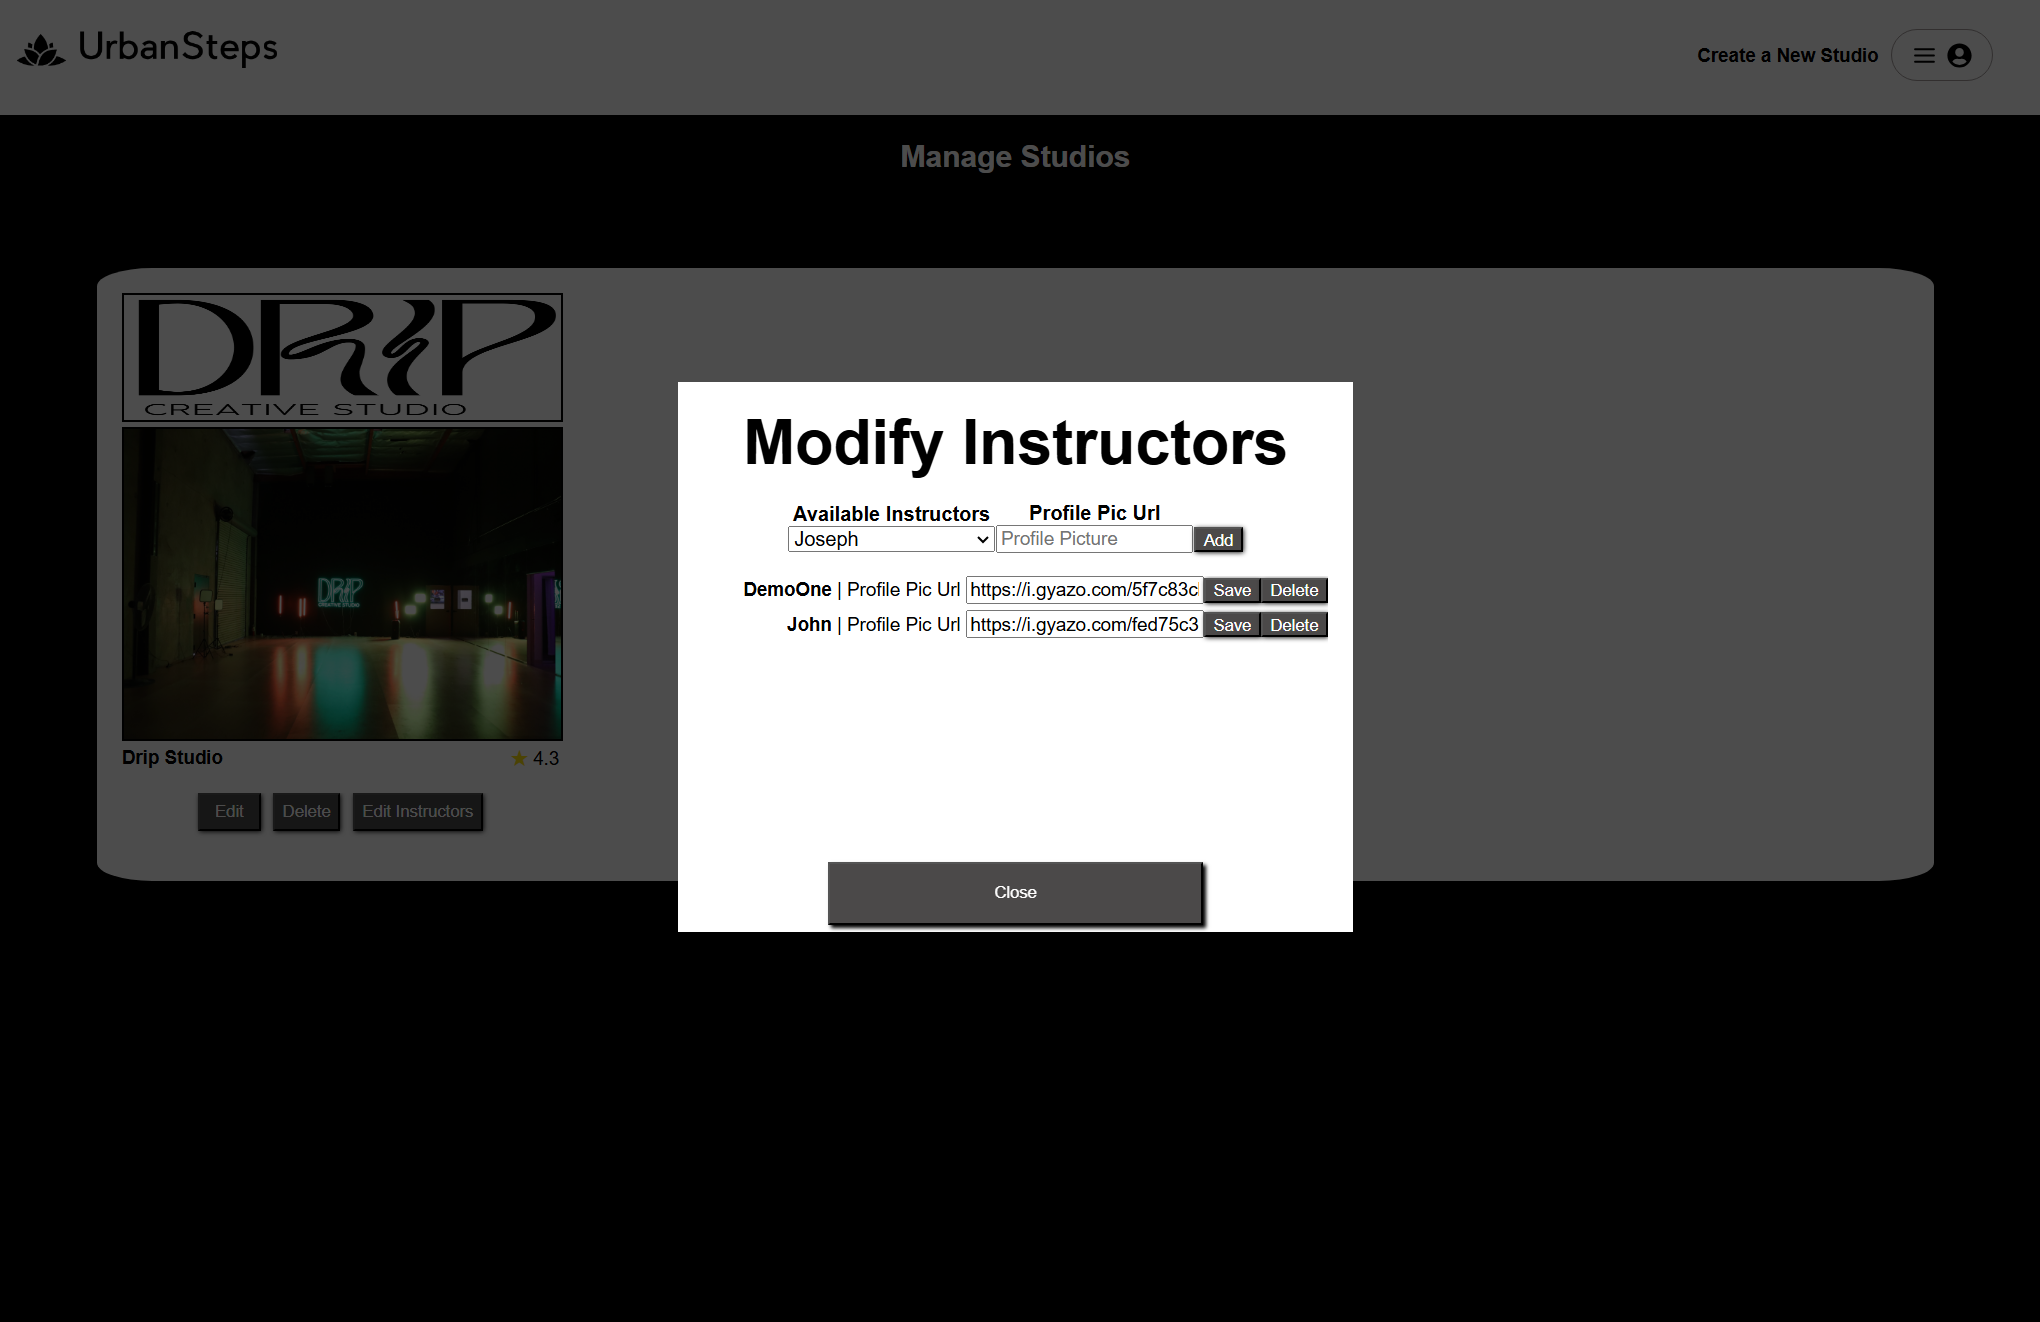
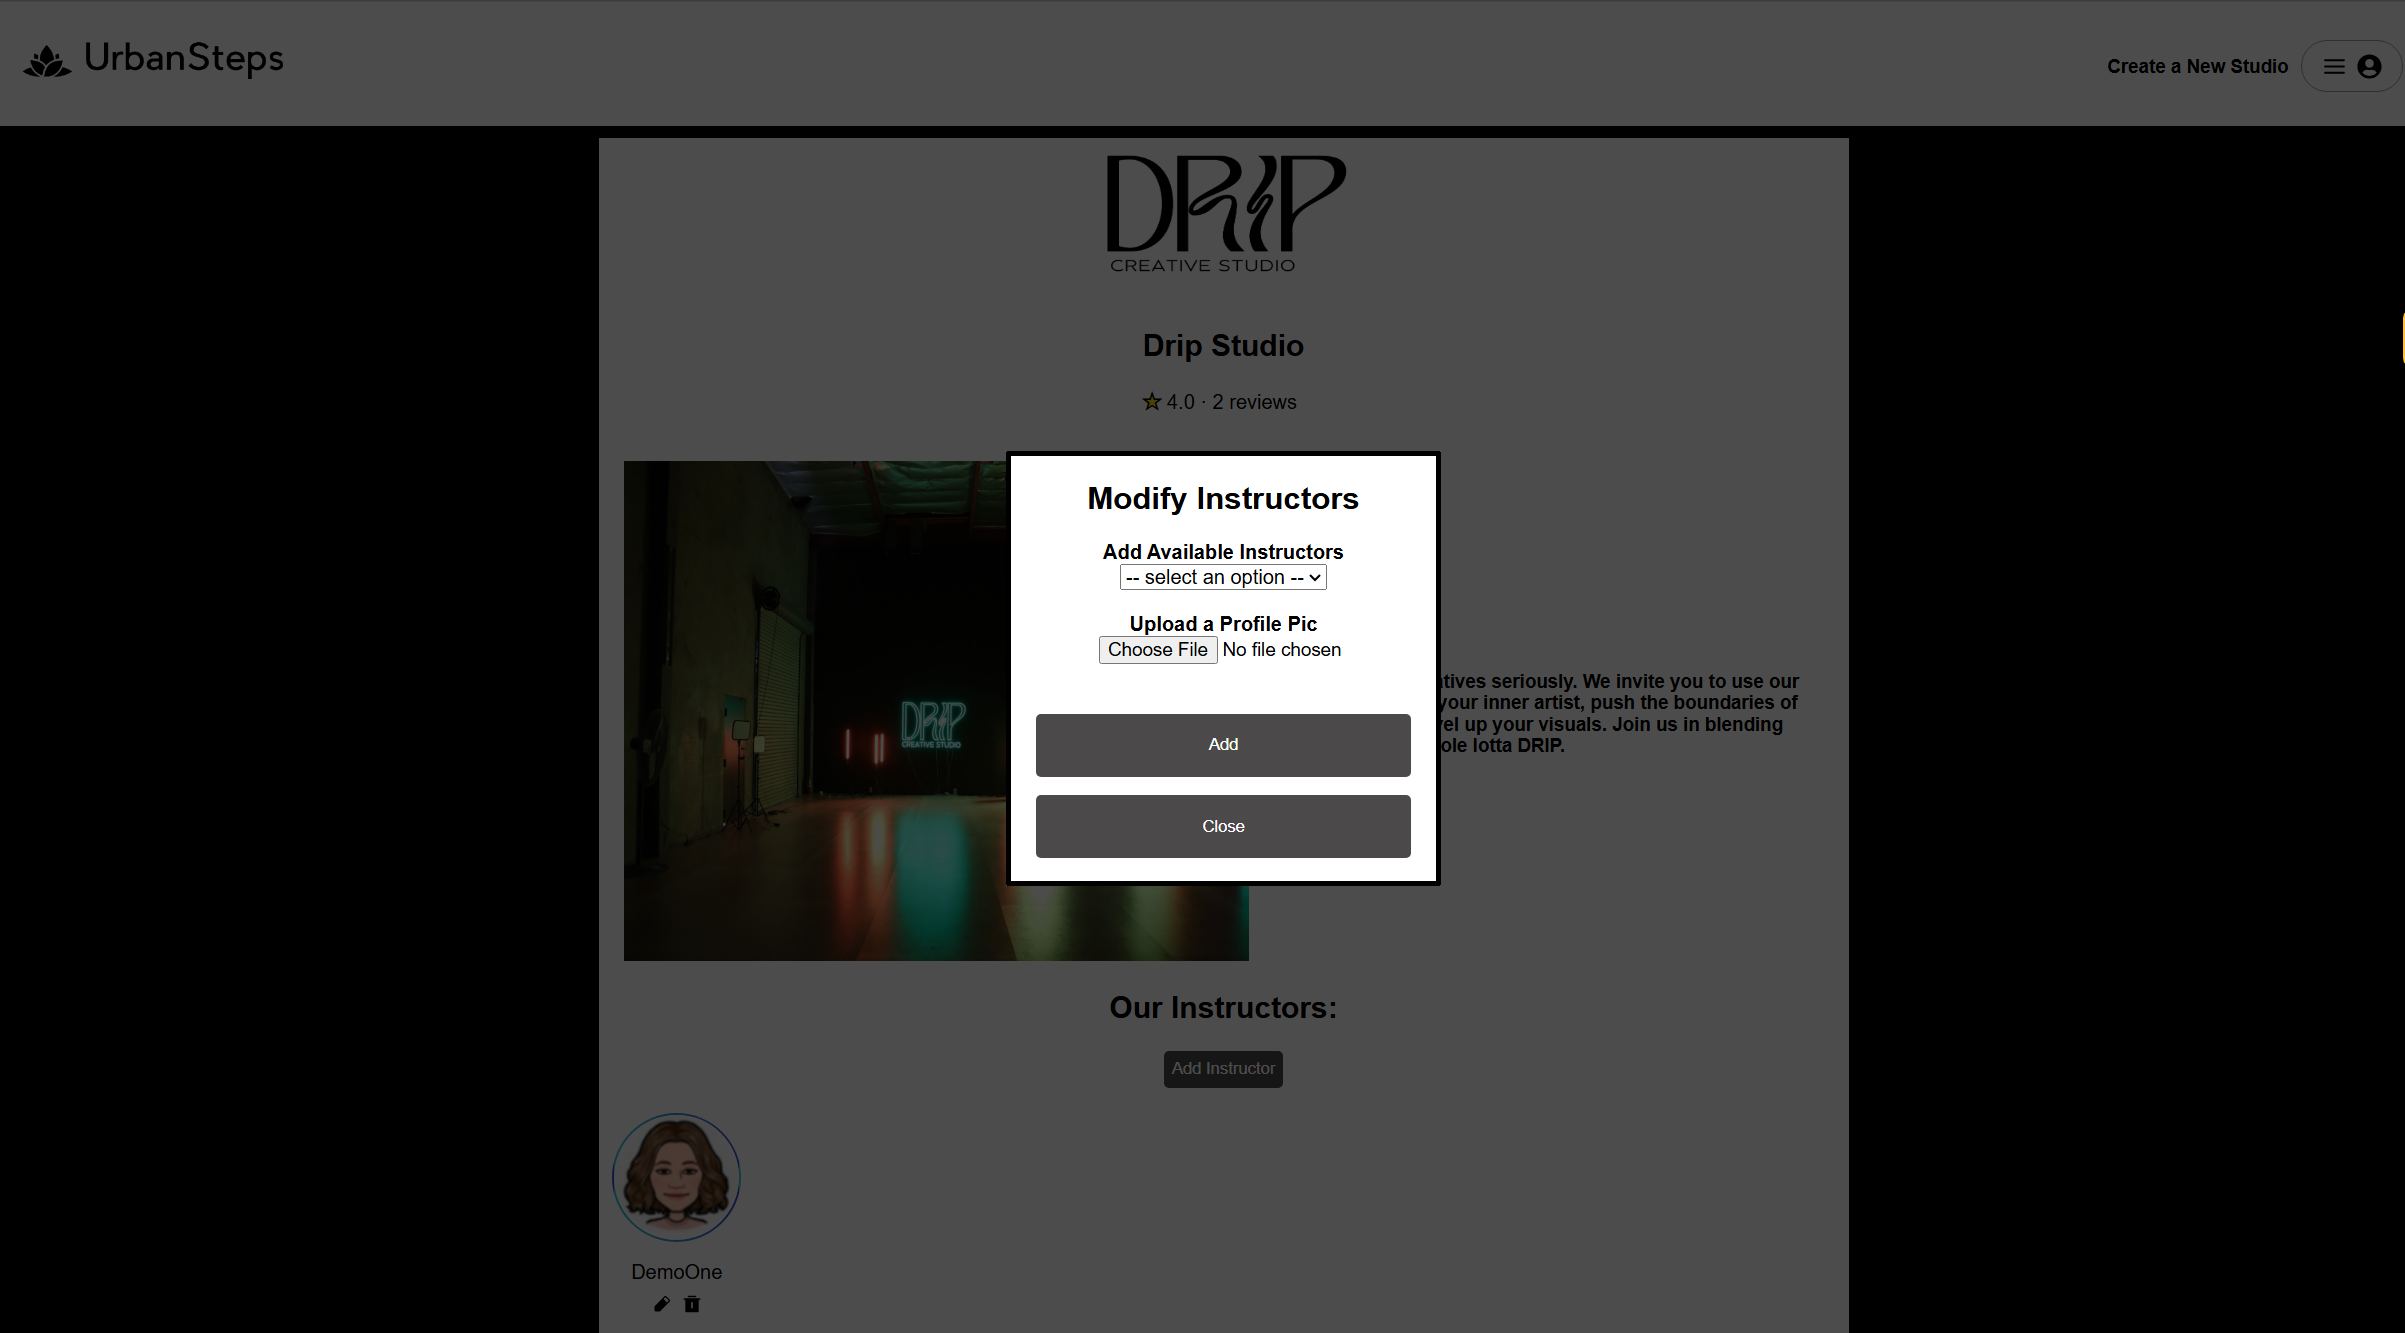
updated read me

diff --git a/README.md b/README.md
@@ -1,8 +1,15 @@
+import { SiSequelize } from "react-icons/si";
 # Urban Steps
 
 Click the following link: [Urban Steps](https://urbansteps.onrender.com/)
 
-Urban Steps is a website and online directory that helps people discover and get involved in local dance studios in their area. Urban Steps' users can view dance studios, instructors, classes, and write reviews. Studio owners can add instructors to their studios and be able to have class schedules on here too! This website is perfect for studio owners who do not have their own website as they can display class schedules for their respective dance studios. This website is also perfect for studio owners who already have a website as it can be another avenue of discovery for people who are interested in taking classes. The backend of Urban Steps is built on SQL, sequelize, and express with a PostgreSQL database. Frontend rendering is handled with React and Redux.
+Urban Steps is a website and online directory that helps people discover and get involved in local dance studios in their area. I have always been interested in combining my passion for dance and technical skills so I built this project to combine the two! A lot of dance studios in my area currently do not have their own websites, so this project's purpose was to resolve basic interactions a dance studio and student would want. Urban Steps' users can view dance studios, instructors, classes, and write reviews. Studio owners can add instructors to their studios and be able to have class schedules on here too! This website is perfect for studio owners who do not have their own website as they can display class schedules for their respective dance studios. This website is also perfect for studio owners who already have a website as it can be another avenue of discovery for people who are interested in taking classes. The backend of Urban Steps is built on SQL, sequelize, and express with a PostgreSQL database. Frontend rendering is handled with React and Redux. AWS is also implemented to support image upload and storage.
+
+<p align="center">
+  <a href="https://skillicons.dev">
+    <img src="https://skillicons.dev/icons?i=js,sqlite,nodejs,sequelize,postgres,react,redux,express,aws" />
+  </a>
+</p>
 
 ## How to clone
 
@@ -34,52 +41,56 @@ To run the app, type `npm start` in the backend directory and `npm run dev` in t
 
 #### React router and components
 
-Urban Steps is single page app. The React router handles the logic associated with component navigation and updates accordingly to the root route. The child components are done through React.
+Urban Steps is a single page app. The React router handles the logic associated with component navigation and updates accordingly to the root route. The child components are done through React & Redux.
 
 #### Frontend and Backend Interaction
 
-Urban Steps server is currently limited to posting data and modification of the database. The frontend stores retrieves and stores necessary information for rendering the site upon entry. There are seed data in the database which can be retrieved and modified, and new information can be passed to be stored into the database as well. The current application is limited to CRUD of studios and instructors. The backend has more functionalities with changes to classes, class events, reviews, and bookings but have not been implemented to interact with the frontend currently.
+Urban Steps server is currently limited to posting data and modification of the database. The frontend stores retrieves and stores necessary information for rendering the site upon entry. There are seed data in the database which can be retrieved and modified, and new information can be passed to be stored into the database as well. The current application is limited to CRUD of studios, instructors, reviews, and classes.
 
 #### Authentication
 
-Users of the site are required to sign up if they would like to post a review or create a studio. Users can see studio details but will not see additional functionalities that include creating a studio. Upon account creation, the user passwords are hashed with B-crypt before being stored. Authentication uses B-crypt to match passwords which allow a user to login if the passwords match.
+Users of the site are required to sign up if they would like to post a review or manage studio listings. Users can see studio details but will not see additional functionalities that include creating a studio. Upon account creation, the user passwords are hashed with B-crypt before being stored. Authentication uses B-crypt to match passwords which allow a user to login if the passwords match.
 
 #### CRUD
 
 ##### Studios
 
-Studios are the core of Urban Steps. All functionalities center around them. The studio table has columns for `ownerId, name, logo, pic, and description`. With the exception of the ownerId, all the other inputs are from the user. The owner_id is a foreign key that points to the associated owner.
+Studios are the core of Urban Steps. All functionalities center around them. The studio table has columns for `ownerId, name, logo, pic, and description`. With the exception of the ownerId, all the other inputs are from the user. The owner_id is a foreign key that points to the associated owner. Upon creating a studio, name, logo, picture, and description are required. The logo and picture input will ask for a file upload from the user creating the studio, which is connected with AWS S3.
+
+<img src="frontend/images/addstudio.png" />
 
 
 Urban Steps lets studio owners create, read, update, and destroy studios. React components and functionalities have been implemented for each corresponding action in the app. Information needed for all components or users actions are managed with redux states.
 
-Users can update the details of the studio that they own as well as delete it under a `manage your studios` link. The link has a list of studios that the user has made along with update or delete functionalities. Once an update or delete has been made:
+Users can update the details of the studio that they own as well as delete it under a `Manage Studios` link. The link has a list of studios that the user has made along with update or delete functionalities. Once an update or delete has been made:
 
 Update:
 1. An update studio form will appear with values pre-populated into the input boxes. Users can change details accordingly.
 2. When user clicks update, a call is made to the backend to update the details in the database. Then, the store receives the studio's updated details, and then re-renders to display the studio's details and all associated details.
 
 Delete:
-1. A user can delete a studio with a click of a button. This delete button will prompt the user to reconfirm if the user wants to delete the studio or not.
-2. If no, the modal will close and the studio will remain under manage studio. If yes, there will be a call made to the backend to delete the studio. Once the store receives the changes in the user's studios, the manage studios browser will re-render and remove the studio that was just deleted and close the modal.
+1. A user can delete a studio with a click of a button. Upon clicking "Delete", a modal will pop up. This delete button will prompt the user to reconfirm if the user wants to delete the studio or not.
+2. If no, the modal will close and the studio will remain. If yes, there will be a call made to the backend to delete the studio. Once the store receives the changes in the user's studios, the manage studios browser will re-render and remove the studio that was just deleted and close the modal.
 
 ##### Instructors
 
-Urban Steps also lets studio owners to add instructors to the studios that they own. Heading over to "manage studios" link, under a studio that they own, there will be three links. One to edit the studio, one to delete the studio, and one that is labeled "Edit Instructors". Clicking that button opens a modal with a text box to add instructors to the studio. The available instructors to add are users who indicate that they are an instructor upon signing up. These instructors are the same list of available instructors that show up for each studio registered on the platform, allowing for instructors to teach at multiple studios. The instructors will be added under the studio in the studio detail page.
+Urban Steps also lets studio owners to add instructors to the studios that they own. Heading over to "Manage Studios" link, under a studio that they own, there will be three links. One to edit the studio, one to delete the studio, and one that is labeled "Edit Instructors/Classes". Clicking "Edit Instructors/Classes" will re-direct the user to a different page that allows the user to manage classes and instructors for that studio. This re-direction to a different page is intentional to avoid clutter on the manage studios page. The available instructors to add are users who indicate that they are an instructor upon signing up. These instructors are the same list of available instructors that show up for each studio registered on the platform, allowing for instructors to teach at multiple studios. The instructors will be added under the studio in the studio detail page. Once an instructor is registered as an instructor for that studio, his or her name will be removed from the list of available instructors.
 
-Example Create Instructor
+Example Add Instructor
 <img src="frontend/images/createinstructors.png" />
+
+Upon clicking "Add Instructor", a modal will pop up asking for a file to upload for the instructor. Adding a profile picture is optional, and can be updated later. If no image is specified, a default "no image available" will take place for the instructor's profile picture displayed on the studio detail page, which can be updated later. The storage of images is done with AWS S3 and allows for secure and reliable image stroage.
+
+<img src="frontend/images/uploadinstructor.png" />
 
 Once an instructor has been made, the new instructor is quickly added under the studio's list of instructors displayed beneath and removed from the list of available instructors to add. It is done by the following:
 
 1. After the instructor is selected to be added, a call is made to the backend which checks if the instructor is already an instructor for this studio and if the user's input is validated.
-2. If successful, when the store receives the studio's updated details and list of instructors, it then re-renders to display the added instructors.
+2. If successful, after the store receives the studio's updated details and list of instructors, it will re-renders to display the added instructor.
 
 #### New Features Queue
 
 Some features missing from this current app that will hopefully be implemented at a future date:
 
-- CRUD reviews
-- CRUD classes
 - CRUD class events/schedule
 - CRUD class bookings
